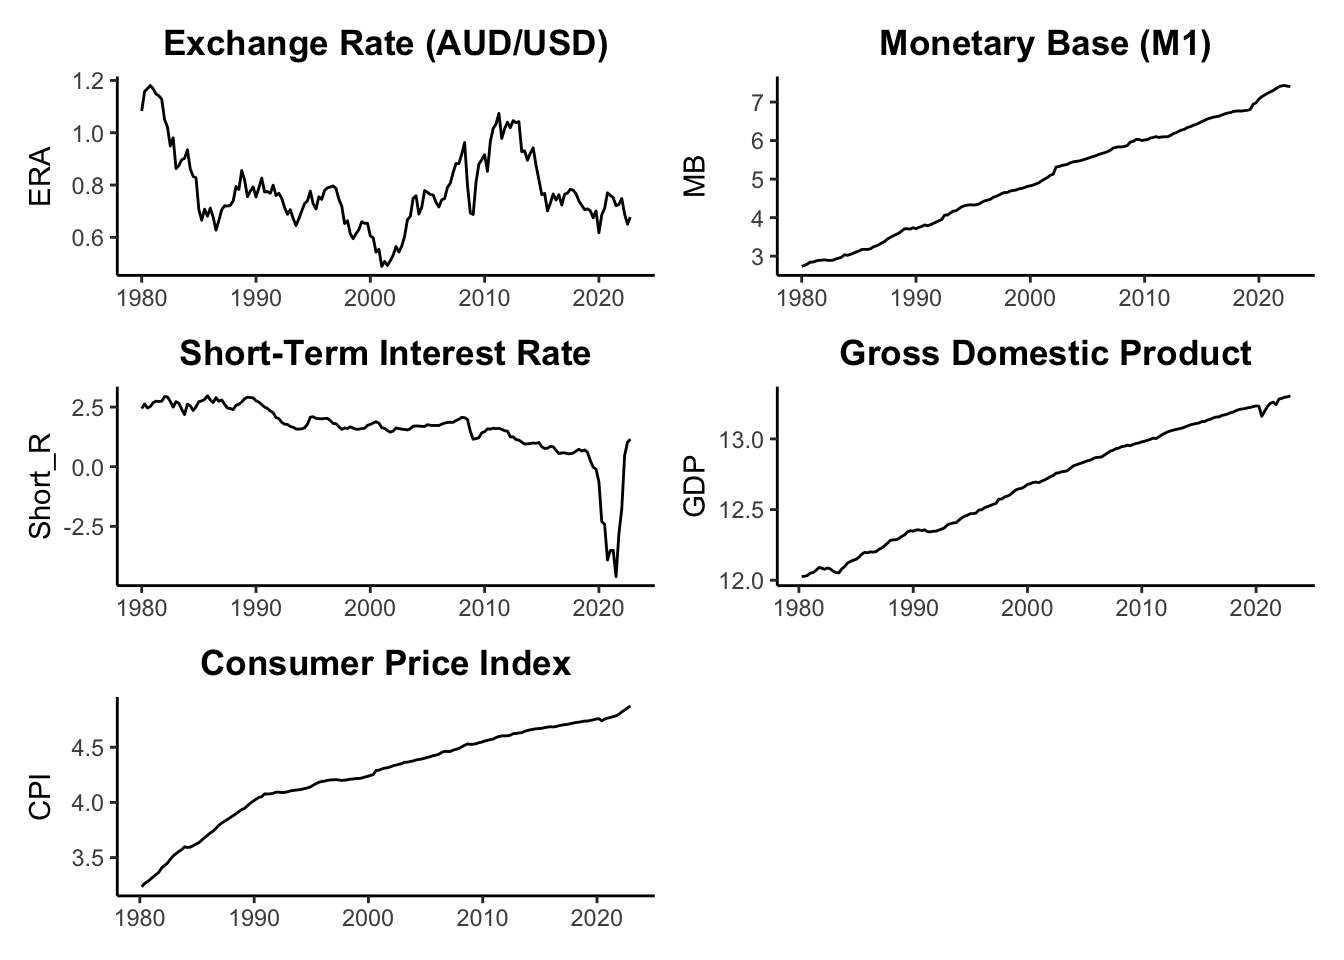
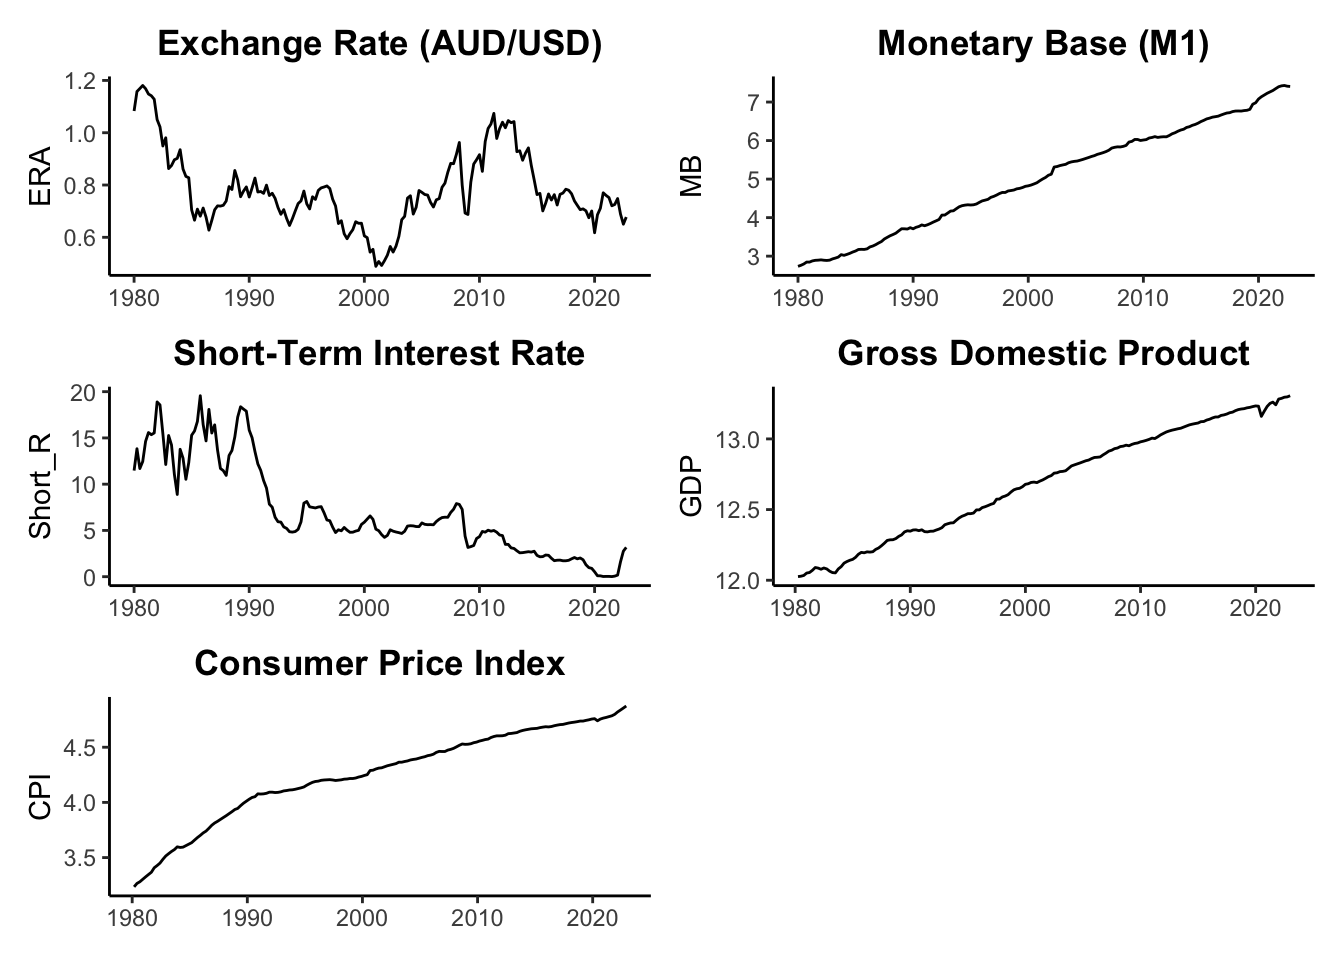
add data descriptions
Investigate its properties and argue on: why they are essential to answer your research question #1

diff --git a/docs/index.html b/docs/index.html
@@ -140,11 +140,15 @@ ul.task-list li input[type="checkbox"] {
 </section>
 <section id="data" class="level1">
 <h1>Data</h1>
+<p>The endogenous variables for the SVAR analysis included: Exchange rate of AUD/USD (ERA), Monetary base M1 (MB), the Bank Accepted Bills/Negotiable Certificates of Deposit-3 months Short–term interest rate (Short_R), Gross Domestic Product (GDP) and Consumer Price Index(CPI). The data are collected from the Reserve Bank of Australia (RBA) and Australian Bureau of Statistics (ABS), adjusted in quarterly frequency and from 1980 Q1 to 2022 Q4, including 172 observations.</p>
+<p>The first variable is the key variable in the analysis of the research, and the other 5 variables are the key monetary variables to identify the monetary shocks in Australia. All variables data have taken Logarithm except short-term interest rate and plotted in <a href="#figure-1.-time-series-plots">Figure 1. Time-series plots</a> .</p>
 <div class="cell">
 <div class="cell-output-display">
 <p><img src="index_files/figure-html/unnamed-chunk-7-1.png" class="img-fluid" width="672"></p>
 </div>
 </div>
+<section id="figure-1.-time-series-plots" class="level6">
+<h6 class="anchored" data-anchor-id="figure-1.-time-series-plots">Figure 1. Time-series plots</h6>
 <div class="cell">
 <div class="cell-output-display">
 <table class="table table-sm table-striped small">
@@ -179,10 +183,10 @@ ul.task-list li input[type="checkbox"] {
 <tr class="odd">
 <td style="text-align: left;">Short_R</td>
 <td style="text-align: right;">172</td>
-<td style="text-align: right;">1.54</td>
-<td style="text-align: right;">1.26</td>
-<td style="text-align: right;">-4.61</td>
-<td style="text-align: right;">2.97</td>
+<td style="text-align: right;">7.04</td>
+<td style="text-align: right;">5.02</td>
+<td style="text-align: right;">0.01</td>
+<td style="text-align: right;">19.56</td>
 </tr>
 <tr class="even">
 <td style="text-align: left;">GDP</td>
@@ -204,6 +208,9 @@ ul.task-list li input[type="checkbox"] {
 </table>
 </div>
 </div>
+</section>
+<section id="table-1.-summary-statistics" class="level6">
+<h6 class="anchored" data-anchor-id="table-1.-summary-statistics">Table 1. Summary statistics</h6>
 <blockquote class="blockquote">
 <p><strong>ACF plots.</strong></p>
 </blockquote>
@@ -250,9 +257,9 @@ ul.task-list li input[type="checkbox"] {
 </tr>
 <tr class="odd">
 <td style="text-align: left;">Short_R</td>
-<td style="text-align: right;">-6.05</td>
+<td style="text-align: right;">-3.59</td>
 <td style="text-align: right;">5</td>
-<td style="text-align: right;">0.01</td>
+<td style="text-align: right;">0.04</td>
 </tr>
 <tr class="even">
 <td style="text-align: left;">GDP</td>
@@ -297,7 +304,7 @@ ul.task-list li input[type="checkbox"] {
 </tr>
 <tr class="odd">
 <td style="text-align: left;">Short_R</td>
-<td style="text-align: right;">-7.15</td>
+<td style="text-align: right;">-6.48</td>
 <td style="text-align: right;">5</td>
 <td style="text-align: right;">0.01</td>
 </tr>
@@ -318,14 +325,15 @@ ul.task-list li input[type="checkbox"] {
 </div>
 </div>
 <p>The <code>echo: false</code> option disables the printing of code (only output is displayed).</p>
+</section>
 <section id="model-specification" class="level2">
 <h2 class="anchored" data-anchor-id="model-specification">Model Specification</h2>
-<p><span class="math display">\[\begin{align}
+<span class="math display">\[\begin{align}
 Y_{t} =\mu_{0}  + \sum_{i=0}^{p} (A_{i}Y_{t-i} )+\epsilon_{t}
-\end{align}\]</span></p>
-<p><span class="math display">\[\begin{align}
+\end{align}\]</span>
+<span class="math display">\[\begin{align}
 \epsilon_{t}|Y_{t-1} \sim iid(0_{N},\Sigma )
-\end{align}\]</span></p>
+\end{align}\]</span>
 </section>
 <section id="a-simple-example" class="level2">
 <h2 class="anchored" data-anchor-id="a-simple-example">A Simple Example</h2>
